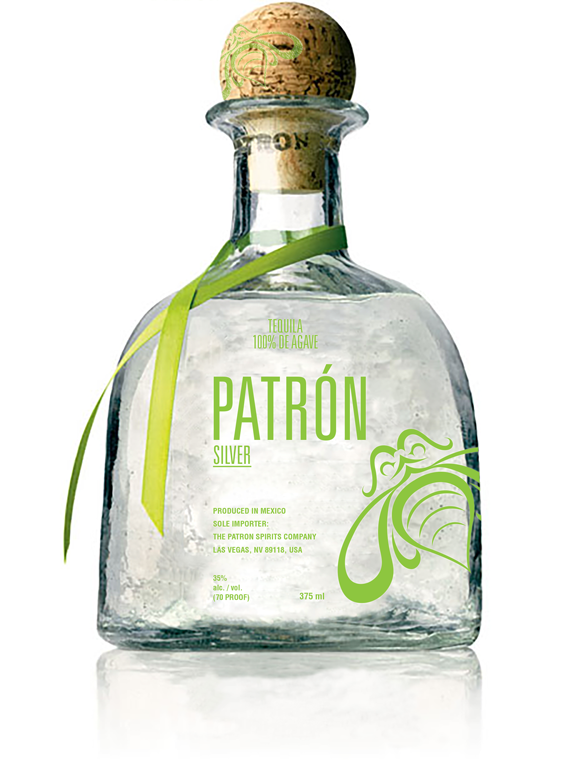
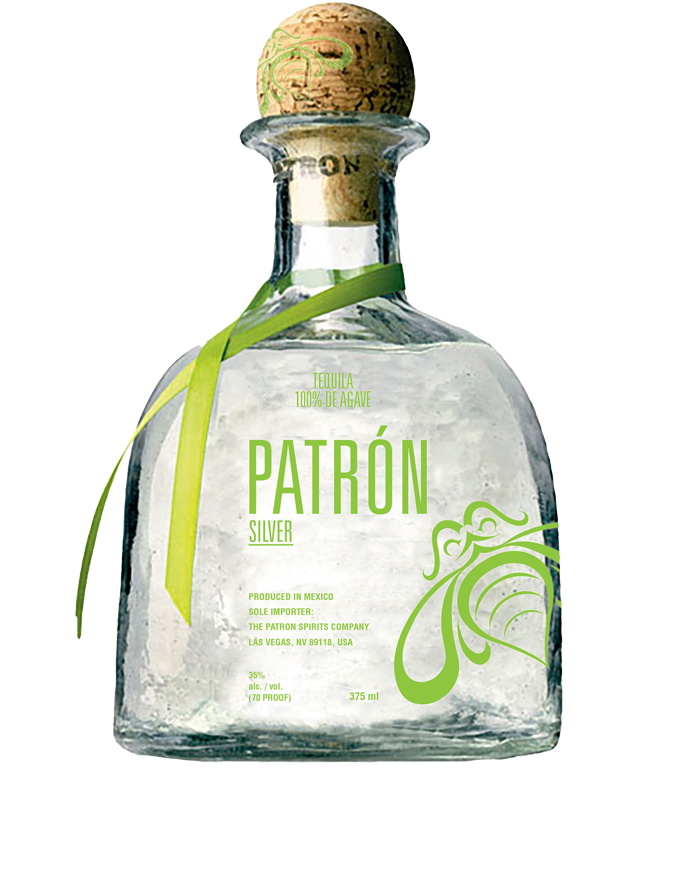
patron tequila photos

diff --git a/index.html b/index.html
@@ -83,14 +83,14 @@
 			
 	<!-- #2 Project slider !-->
 		<div class="img-project">
-			<h3 class="explanation">CarShow Poster</h3>
 			<div class="rslides-wrapper">
 				<ul class="rslides">
 			  		<li><img src="images/patronsilver.png" alt=""></li>
-			  		<li><img src="images/pele1958.png" alt=""></li>
-			 		<li><img src="images/GoldenBoot1930.png" alt=""></li>
+			  		<li><img src="images/silvertequilapackage.png" alt=""></li>
+			 		<li><img src="images/patronlogo.png" alt=""></li>
 				</ul>
 			</div>
+			<h3 class="explanation">Tequila Rebrand</h3>
 			<p class="explanation-btn">An illustrator poster design for a classic car show, directed to mature adults.</p>	
 		</div>
 
